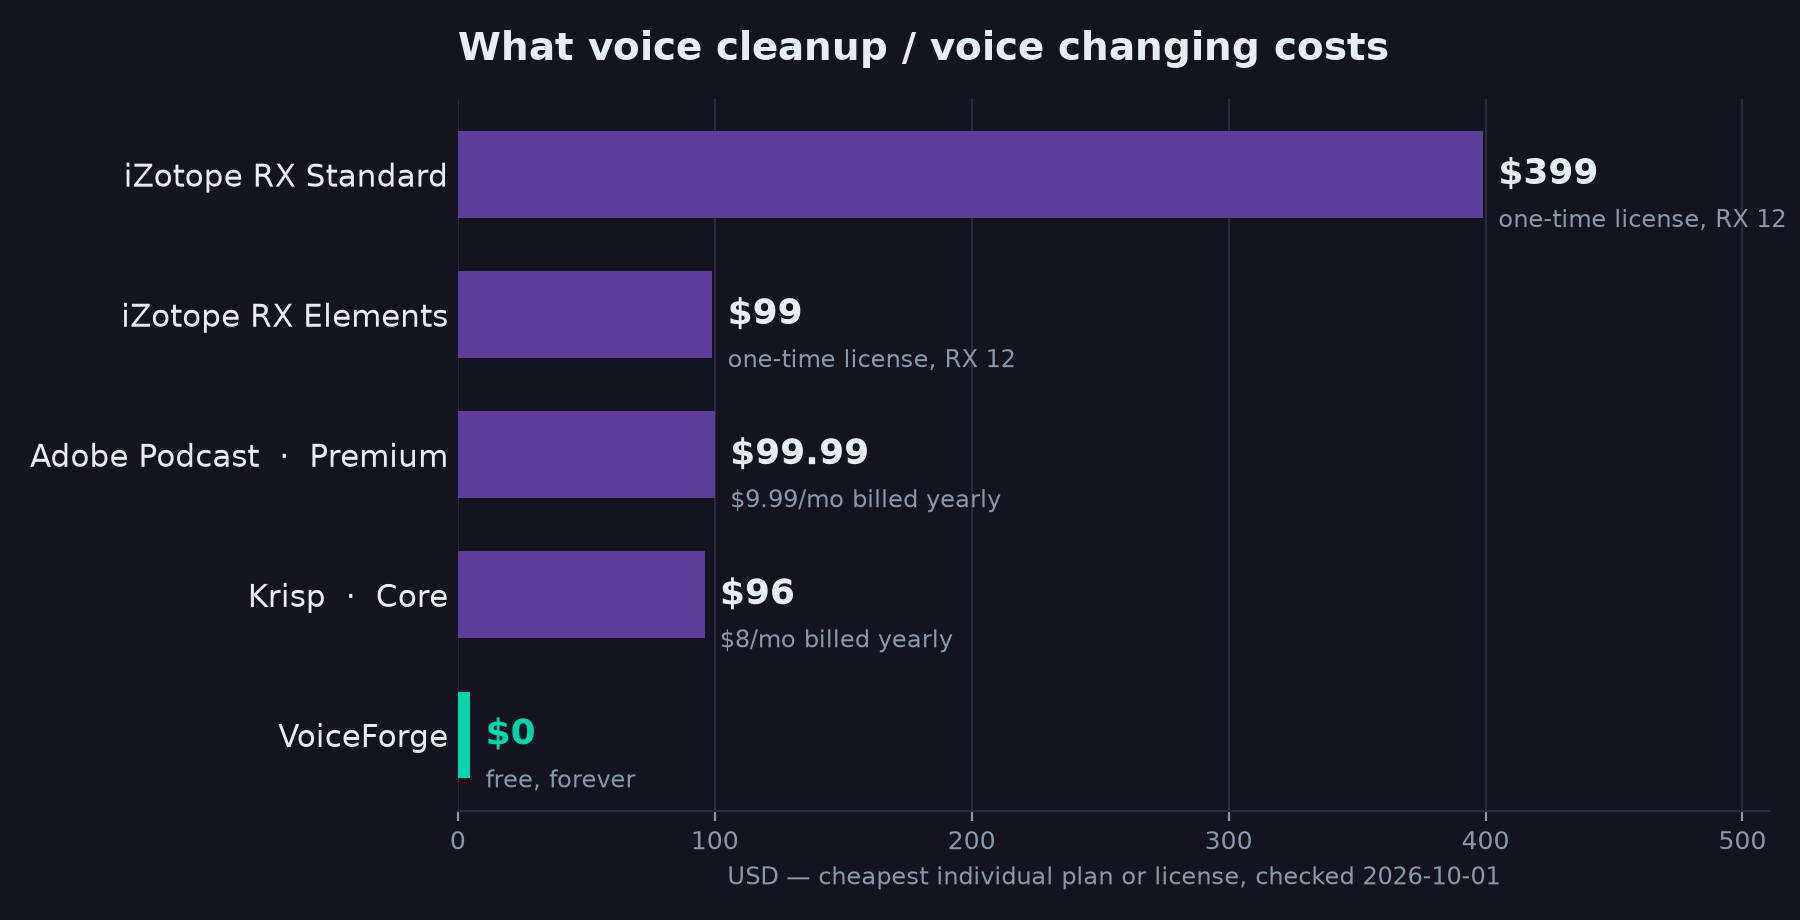
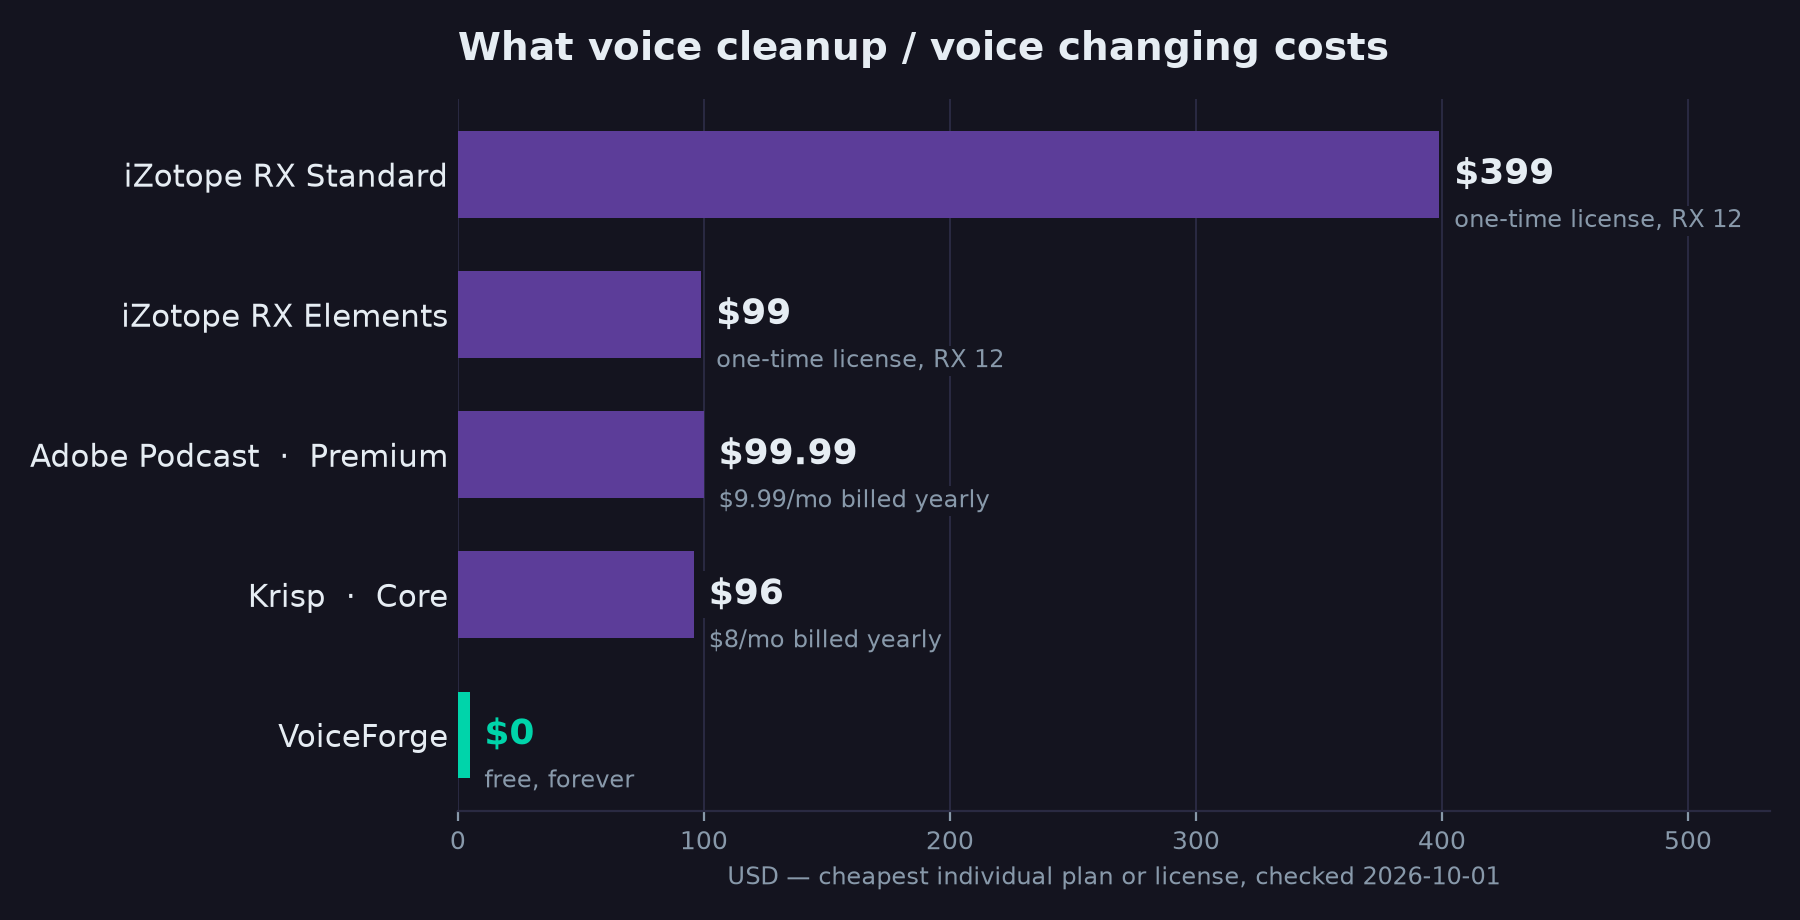
docs: fix cost chart label overlap; drop broken demo.gif reference

diff --git a/scripts/make_cost_chart.py b/scripts/make_cost_chart.py
@@ -61,13 +61,16 @@ def main() -> None:
     shown = [v if v > 0 else top * 0.012 for v in values]
     ax.barh(ypos, shown, color=colors, height=0.62, zorder=3)
 
+    label_bbox = dict(boxstyle="square,pad=0.15", fc=BG, ec="none")
+    label_texts = []
     for y, (_, value, note) in zip(ypos, DATA, strict=True):
         price = "$0" if value == 0 else f"${value:g}"
         color = FREE_COLOR if value == 0 else FG
         x = max(value, top * 0.012) + top * 0.015
-        ax.text(x, y, price, va="center", ha="left", color=color,
-                fontsize=13, fontweight="bold")
-        ax.text(x, y - 0.33, note, va="center", ha="left", color=MUTED, fontsize=8.5)
+        label_texts.append(ax.text(x, y, price, va="center", ha="left", color=color,
+                fontsize=13, fontweight="bold", zorder=4, bbox=label_bbox))
+        label_texts.append(ax.text(x, y - 0.33, note, va="center", ha="left", color=MUTED,
+                fontsize=8.5, zorder=4, bbox=label_bbox))
 
     ax.set_yticks(ypos, labels)
     ax.tick_params(axis="y", colors=FG, labelsize=11, length=0)
@@ -84,6 +87,23 @@ def main() -> None:
     ax.set_axisbelow(True)
 
     fig.tight_layout()
+
+    # Extend the x-axis so the widest label (sub-label text, which can run
+    # past the bar) ends with real padding before the image's right edge,
+    # instead of running flush against it. Measured in actual rendered
+    # pixels so it holds regardless of font/DPI/label-length changes.
+    fig.canvas.draw()
+    renderer = fig.canvas.get_renderer()
+    axis_width_px = ax.get_window_extent(renderer=renderer).width
+    left, right = ax.get_xlim()
+    max_text_x_data = max(
+        ax.transData.inverted().transform((t.get_window_extent(renderer=renderer).x1, 0))[0]
+        for t in label_texts
+    )
+    pad_px = 40
+    new_right = left + (max_text_x_data - left) / (1 - pad_px / axis_width_px)
+    ax.set_xlim(left, max(right, new_right))
+
     os.makedirs(os.path.dirname(OUT_PATH), exist_ok=True)
     fig.savefig(OUT_PATH, facecolor=BG)
     print(f"[make_cost_chart] wrote {os.path.abspath(OUT_PATH)}")

diff --git a/README.md b/README.md
@@ -17,10 +17,6 @@
   <a href="https://github.com/awesomo913/VoiceForge/releases/latest"><b>⬇ Download for Windows</b></a>
 </p>
 
-<p align="center">
-  <img src="docs/assets/demo.gif" alt="Record a clip, pick a preset like Deep Authority, click Preview, then Export WAV" width="85%">
-</p>
-
 ## Why VoiceForge
 
 - **Actually local.** Every effect — DSP, AI noise cleanup, optional voice conversion — runs on your own CPU. Your voice never leaves your machine.
